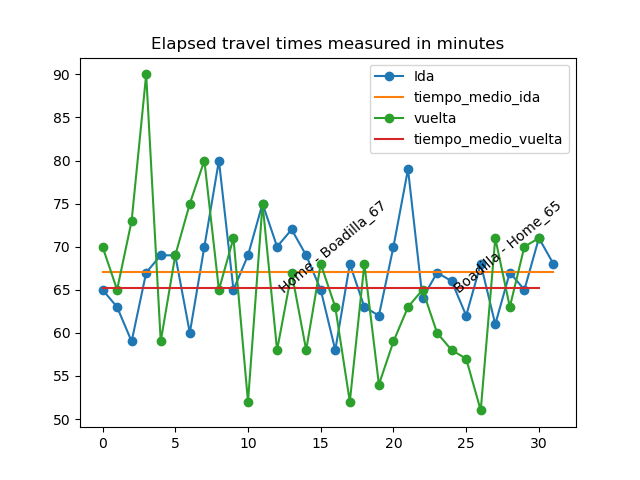
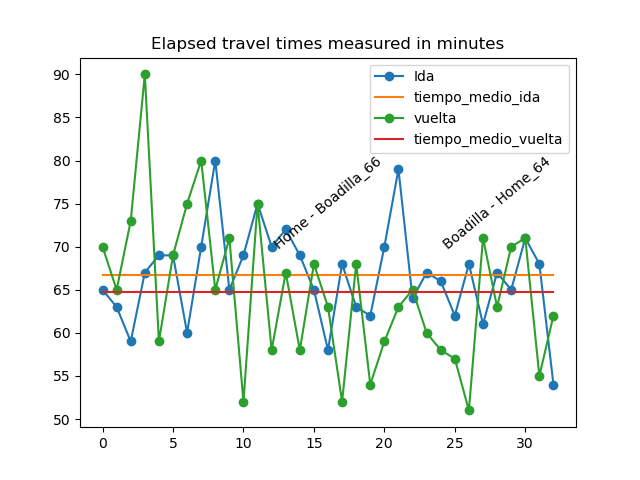
new changes to csv and front

diff --git a/analytics/analytics.py b/analytics/analytics.py
@@ -31,7 +31,7 @@ for direction in df["direction"].unique().tolist():
     mean_time = np.mean(elapsed_times)
     plt.plot(range(len(elapsed_times)), elapsed_times, marker="o")
     plt.plot(range(len(elapsed_times)), [mean_time for i in range(len(elapsed_times))])
-    plt.text(q, 70, direction + "_" + str(mean_time)[:2], rotation=40, verticalalignment='center')
+    plt.text(q, 75, direction + "_" + str(mean_time)[:2], rotation=40, verticalalignment='center')
     q += 12
     plt.title("Elapsed travel times measured in minutes")
     plt.legend([direction, "Media_" + direction])
@@ -41,3 +41,6 @@ plt.legend(["Ida", "tiempo_medio_ida", "vuelta", "tiempo_medio_vuelta"])
 plt.savefig("output_files/times_plot" + direction + ".png")
 plt.show()
 
+
+df["elapsed_time (mins)"].plot()
+plt.show()
